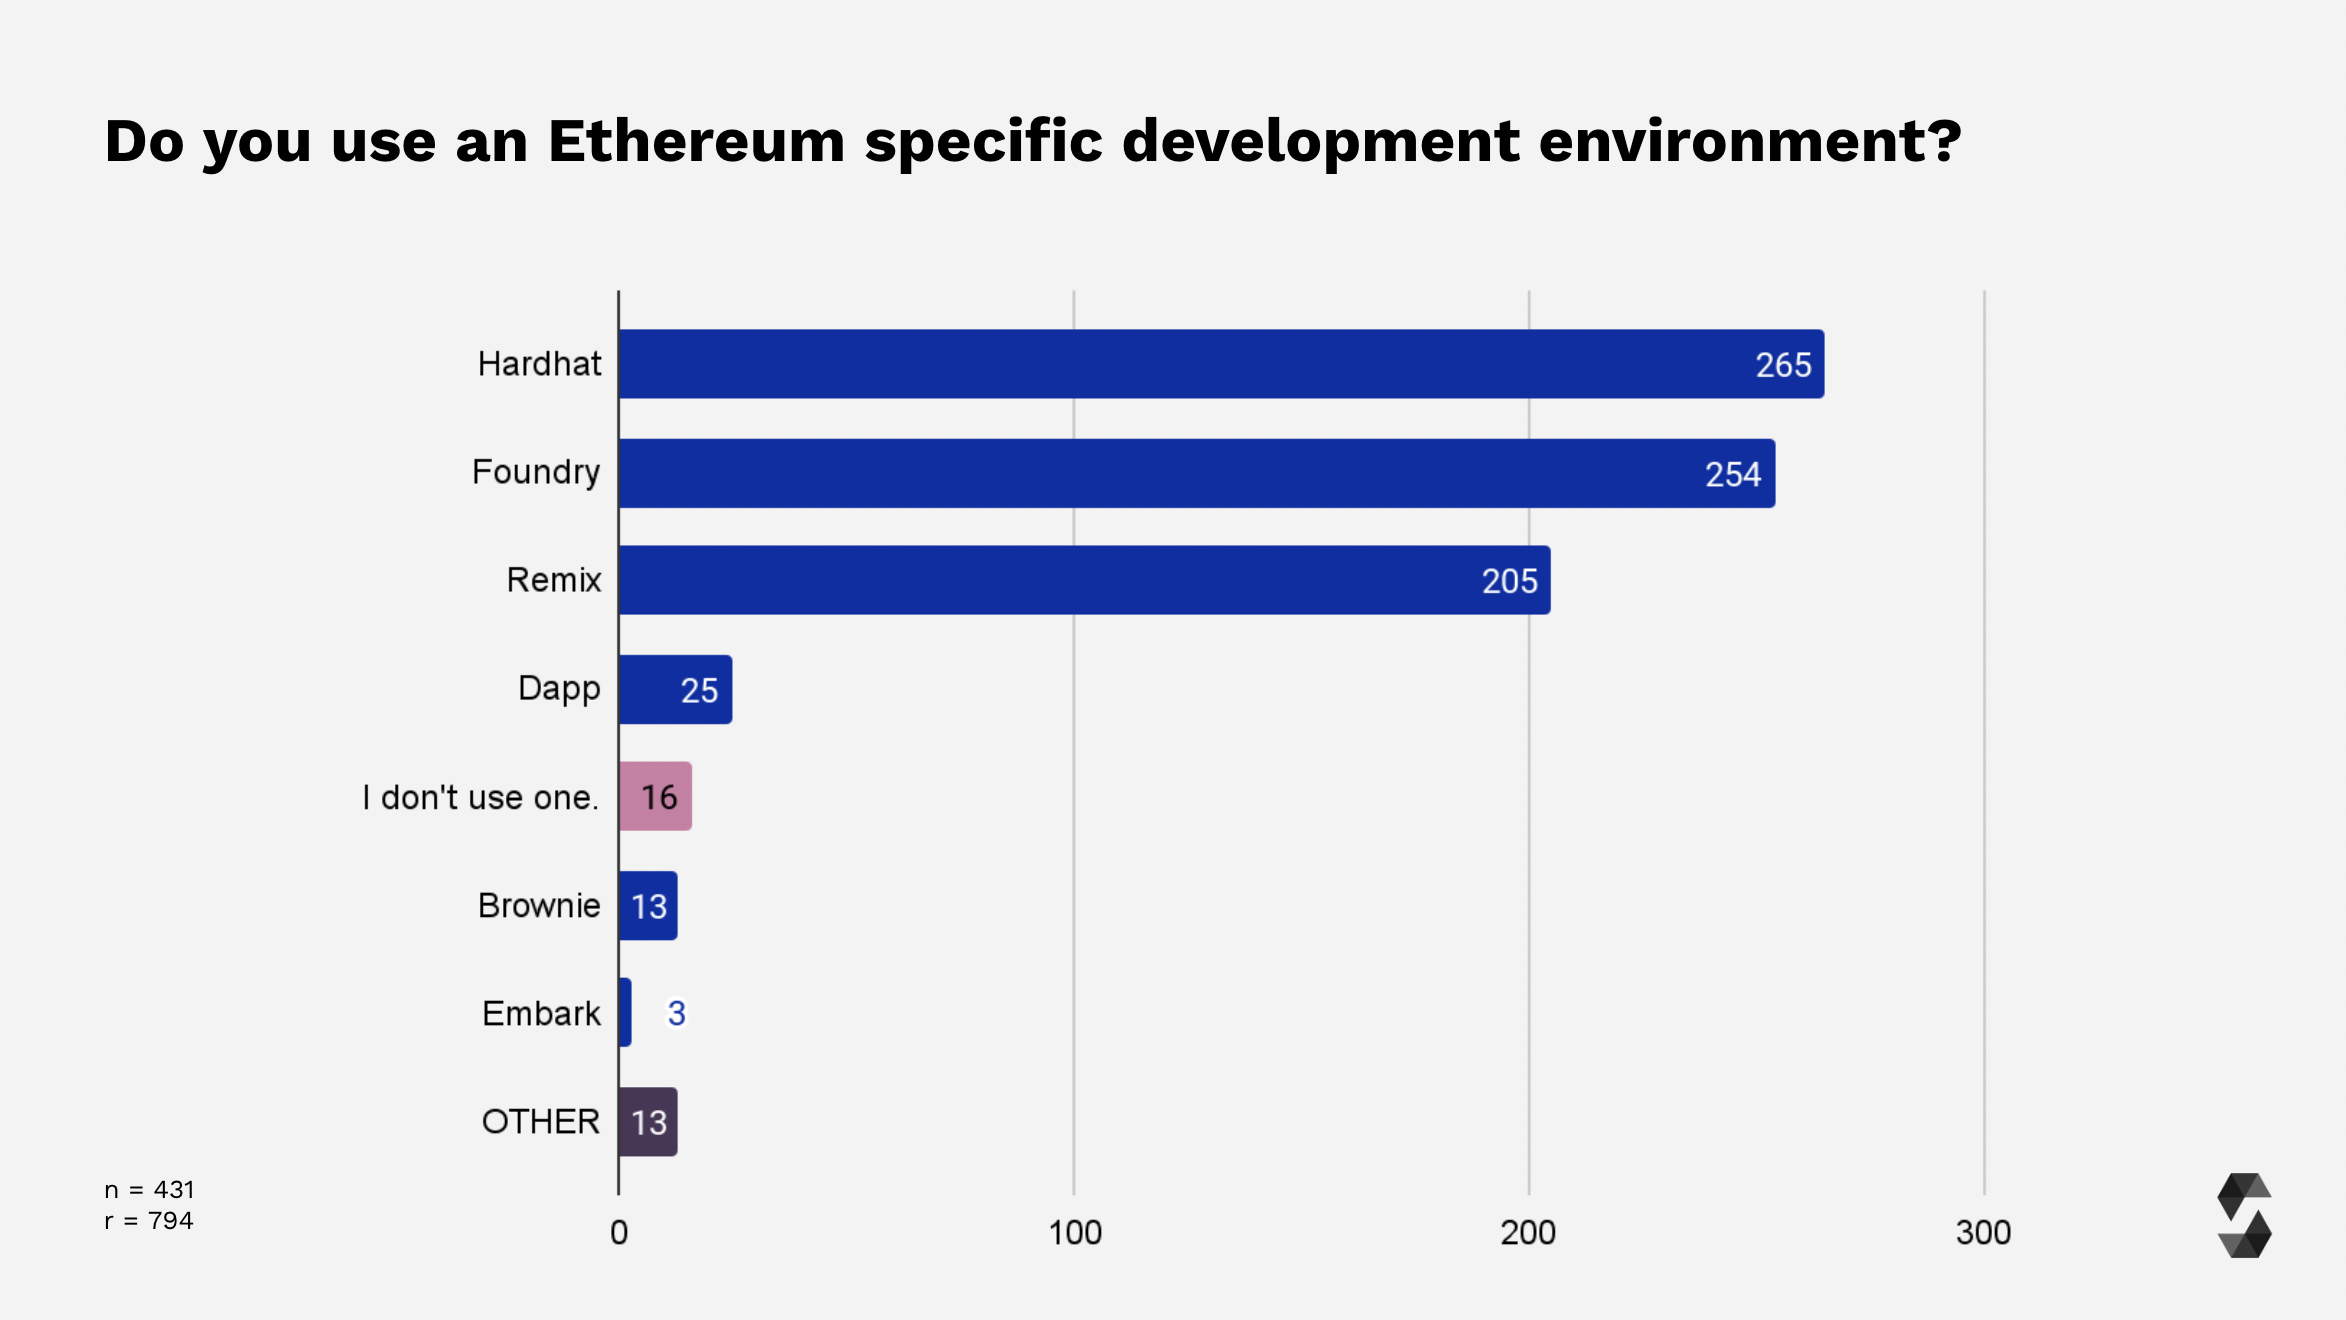
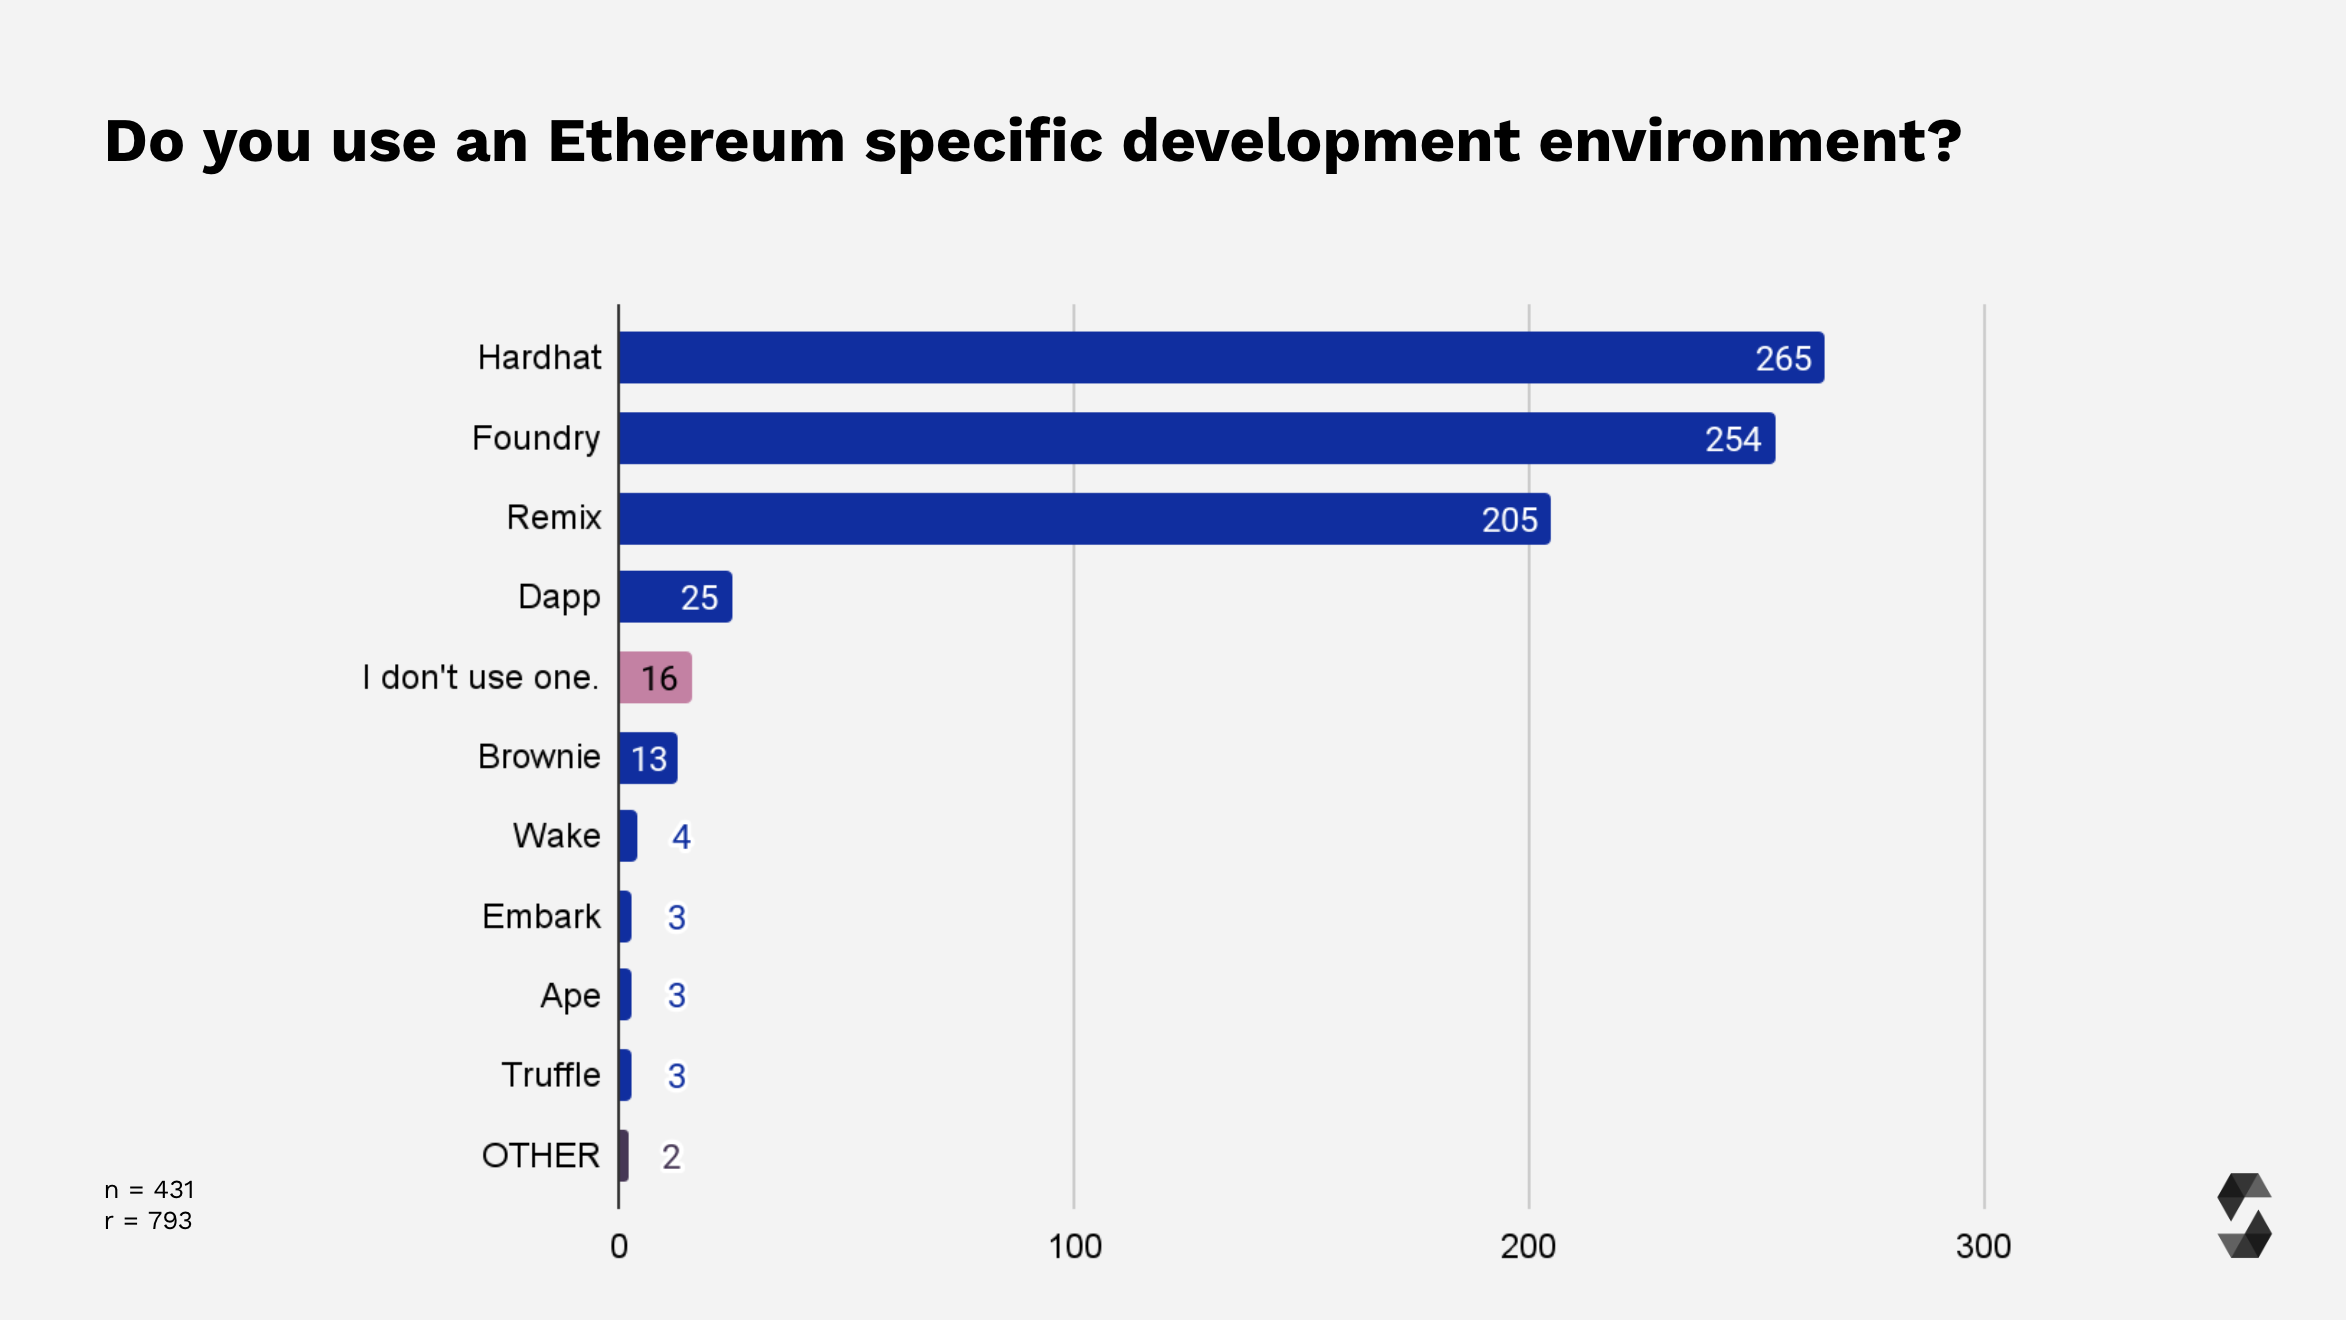
Delete public/img/2024/survey/Slide29.png (#98)
* Delete public/img/2024/survey/Slide29.png

* Add files via upload

* Update 2024-04-03-solidity-developer-survey-2023-results.md

diff --git a/src/posts/2024-04-03-solidity-developer-survey-2023-results.md b/src/posts/2024-04-03-solidity-developer-survey-2023-results.md
@@ -7,6 +7,8 @@ author: Vishwa Mehta
 category: Announcements
 ---
 
+EDIT REMARK: We noticed a minor error in the graphical representation of popular Ethereum-specific IDEs. The results in this blog post and corresponding graphical data in the slide deck has been updated to reflect this rectification that represents the survey data accurately.
+
 We are thrilled to share with you the [Solidity Developer Survey 2023](https://blog.soliditylang.org/2023/12/08/solidity-developer-survey-2023-announcement/) results! In this blog post, we will be going over key insights and detailed analysis of the various sections of the survey.
 
 Before we dive in, we would like to thank everyone who submitted a response to the survey as well as helped us reach the right audience for it! Your inputs are invaluable to us and are pivotal in driving important language design decisions and improving Solidity as an open source project.
@@ -237,7 +239,9 @@ Not too far behind, Foundry ranks second with 32% and Remix follows closely with
 
 Truffle moves further into the "OTHER" list with only 3 respondents indicating its usage.
 
-While Dapp rises slightly higher in usage with 3.1% users, Brownie (1.6%) and Embark (0.3%) seem to be the less popular choices this year ranking even lower in usage than the previous year.
+While Dapp rises slightly higher in usage with 3.1% users, Brownie (1.6%), Truffle (0.3%), Ape (0.3%), and Embark (0.3%) seem to be the less popular choices this year ranking even lower in usage than the previous year.
+
+With 0.5% of votes, Wake made it into the graph this year as a new choice of IDE.
 
 As low as 2% of respondents do not use any Ethereum-specific development environment at all.
 
